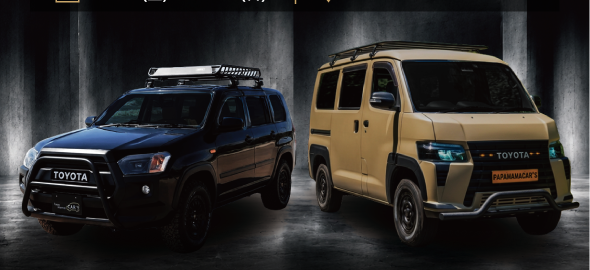
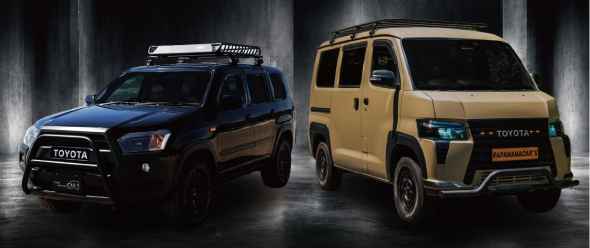
ヒーロー車両画像の上端に写り込んだ日付行を除去、GTMタグを追加
- hero-vehicles.pngを日付バーの下から再クロップ(590x248)
- index.htmlのheadにGoogle Tag Manager(GTM-W3MC3WFW)、
  body直後にnoscriptフォールバックを追加

Claude-Session: https://claude.ai/code/session_01LdzAL1xeU9Mo5jo1ZkjML3

diff --git a/index.html b/index.html
@@ -1,6 +1,13 @@
 <!doctype html>
 <html lang="ja">
   <head>
+    <!-- Google Tag Manager -->
+    <script>(function(w,d,s,l,i){w[l]=w[l]||[];w[l].push({'gtm.start':
+    new Date().getTime(),event:'gtm.js'});var f=d.getElementsByTagName(s)[0],
+    j=d.createElement(s),dl=l!='dataLayer'?'&l='+l:'';j.async=true;j.src=
+    'https://www.googletagmanager.com/gtm.js?id='+i+dl;f.parentNode.insertBefore(j,f);
+    })(window,document,'script','dataLayer','GTM-W3MC3WFW');</script>
+    <!-- End Google Tag Manager -->
     <meta charset="UTF-8" />
     <meta name="viewport" content="width=device-width, initial-scale=1.0" />
     <meta
@@ -10,6 +17,10 @@
     <title>PAPAMAMA CAR'S | 北陸オートリミックス2026 in 金沢 出店決定！</title>
   </head>
   <body>
+    <!-- Google Tag Manager (noscript) -->
+    <noscript><iframe src="https://www.googletagmanager.com/ns.html?id=GTM-W3MC3WFW"
+    height="0" width="0" style="display:none;visibility:hidden"></iframe></noscript>
+    <!-- End Google Tag Manager (noscript) -->
     <div id="root"></div>
     <script type="module" src="/src/main.tsx"></script>
   </body>

diff --git a/src/sections/HeroSection.tsx b/src/sections/HeroSection.tsx
@@ -43,7 +43,7 @@ export function HeroSection() {
         src="/images/hero-vehicles.png"
         alt="PAPAMAMA CAR'Sのカスタム展示車両2台(ブラックSUVとベージュのバン)"
         width={590}
-        height={270}
+        height={248}
         className="hero__vehicles"
       />
     </section>

diff --git a/src/styles/sections.css b/src/styles/sections.css
@@ -100,7 +100,7 @@
   width: 100%;
   max-width: var(--width-content);
   margin: 10px auto 0;
-  aspect-ratio: 590 / 270;
+  aspect-ratio: 590 / 248;
   object-fit: cover;
 }
 
